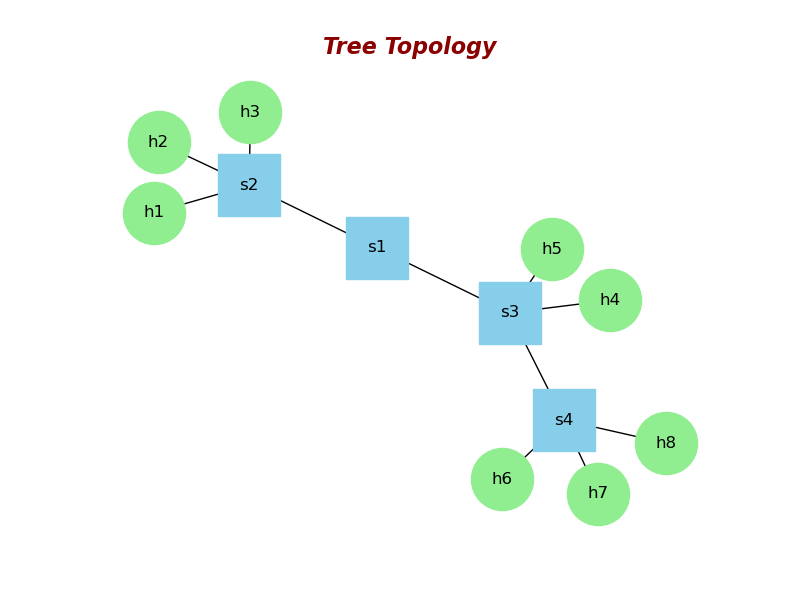
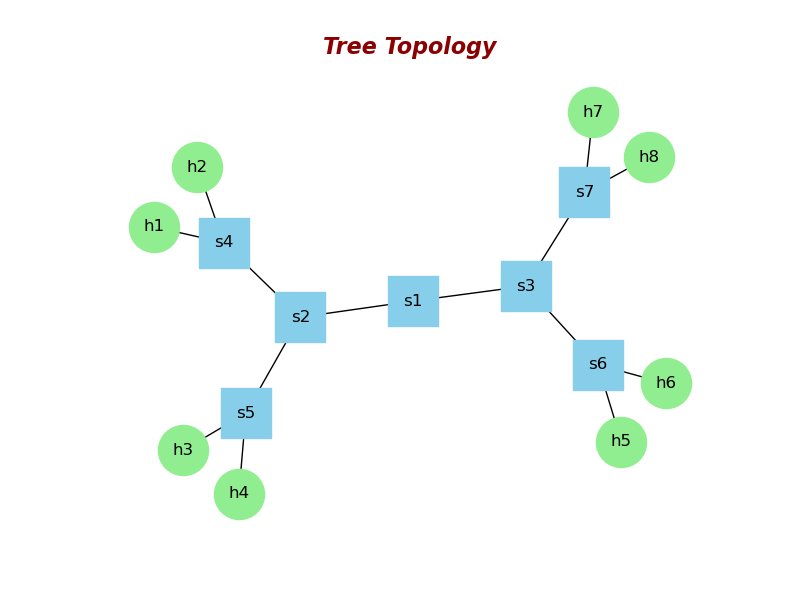
Upload tree topology

diff --git a/Lab3/network_sketch.py b/Lab3/network_sketch.py
@@ -63,6 +63,7 @@ plt.savefig("Linear_Topology.png")
 
 # Redraw Tree Topology figure with the corrected structure again
 G_tree = nx.Graph()
+switches.extend(['s5', 's6', 's7'])
 
 # Adding nodes (switches and hosts are already defined)
 G_tree.add_nodes_from(switches)
@@ -71,21 +72,21 @@ G_tree.add_nodes_from(hosts)
 # Adding links between switches for tree topology
 G_tree.add_edge('s1', 's2')
 G_tree.add_edge('s1', 's3')
-G_tree.add_edge('s3', 's4')
+G_tree.add_edge('s2', 's4')
+G_tree.add_edge('s2', 's5')
+G_tree.add_edge('s3', 's6')
+G_tree.add_edge('s3', 's7')
 
 # Connecting hosts to switches
-for i in range(3):
-    G_tree.add_edge(hosts[i], 's2')
-    G_tree.add_edge(hosts[i + 5], 's4')
-
-G_tree.add_edge('s3', 'h4')
-G_tree.add_edge('s3', 'h5')
+for i in range(3, 7):
+    G_tree.add_edge(switches[i], hosts[2*i-6])
+    G_tree.add_edge(switches[i], hosts[2*i-5])
 
 # Drawing the corrected topology
 plt.figure(figsize=(8, 6))
 pos = nx.spring_layout(G_tree)
-nx.draw_networkx_nodes(G_tree, pos, nodelist=switches, node_size=2000, node_color="skyblue", node_shape='s')
-nx.draw_networkx_nodes(G_tree, pos, nodelist=hosts, node_size=2000, node_color="lightgreen", node_shape='o')
+nx.draw_networkx_nodes(G_tree, pos, nodelist=switches, node_size=1300, node_color="skyblue", node_shape='s')
+nx.draw_networkx_nodes(G_tree, pos, nodelist=hosts, node_size=1300, node_color="lightgreen", node_shape='o')
 nx.draw_networkx_edges(G_tree, pos)
 nx.draw_networkx_labels(G_tree, pos)
 plt.title("Tree Topology", fontsize=16, fontweight='bold', fontstyle='italic', color='darkred', y=1.02)
